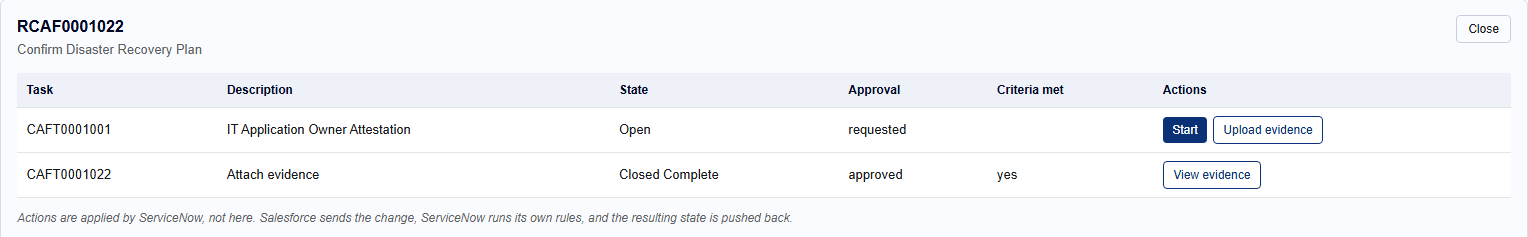
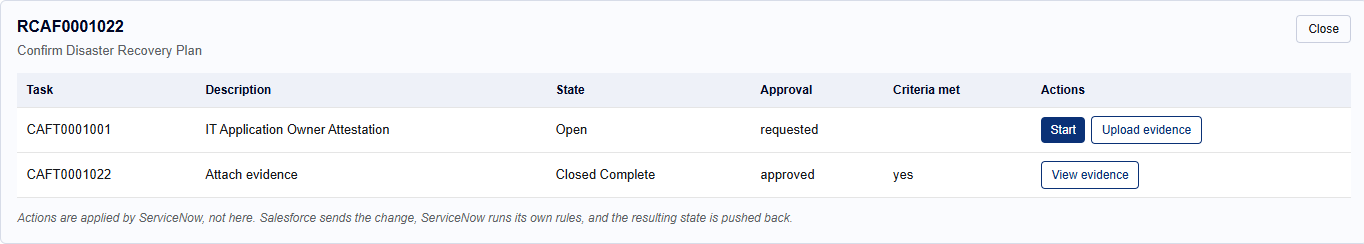
deck: re-derive crop boxes for the 1425px capture pass
Dashboard and portal-grid captures are still 1600px wide; the four
task-panel captures are now 1425px. Boxes are per-capture and were not
interchangeable, so drill-in, evidence-owner, attest-approver and
evidence-both are re-derived against the new screenshots.

diff --git a/presentation/crops.py b/presentation/crops.py
@@ -1,11 +1,16 @@
 """
 Screenshot preparation for the CAF Compliance business deck.
 
-The raw Playwright captures are 1600px-wide full-page shots with a lot of
-background below the fold, and a business slide wants the panel, not the page.
-Each entry below is a named region of a captured screen; `trim()` then removes
-any uniform border left over, so a crop box that is slightly generous
-self-corrects rather than leaving a grey band down one side.
+The raw Playwright captures are full-page shots with a lot of background below
+the fold, and a business slide wants the panel, not the page. Each entry below
+is a named region of a captured screen; `trim()` then removes any uniform
+border left over, so a crop box that is slightly generous self-corrects rather
+than leaving a grey band down one side.
+
+Two capture widths are in play, because the harness viewport changed between
+passes: the dashboard and portal-grid captures are 1600px wide, the four
+task-panel captures are 1425px. Boxes are therefore per-capture and are not
+interchangeable between the two sets.
 
 Sources are the UI evidence from testing/automation/evidence/ — the same
 captures the test pack cites, so a screen in the deck and a screen in the
@@ -34,17 +39,22 @@ REGIONS = {
     "sf-grid-pair": ("TC-INT-053/02-dashboard-with-sync-strip.png", (33, 345, 1570, 481)),
     "sn-grid-pair": ("TC-INT-048/02-servicenow-portal-grid.png", (240, 348, 1362, 515)),
 
+    # The four task-panel captures below are from the 1425px-wide pass. Each
+    # page carries the compliance grid above the panel and a sticky Salesforce
+    # nav strip across it, so the box starts below both and frames the panel
+    # only — the section heading down to its closing note.
+
     # Drill-in: a request's tasks with the actions available in each state.
-    "drill-in": ("TC-INT-051/01-drill-in-task-list.png", (33, 578, 1570, 815)),
+    "drill-in": ("TC-INT-051/01-drill-in-task-list.png", (30, 1275, 1400, 1520)),
 
     # Owner's view — upload evidence, both copies listed.
-    "evidence-owner": ("TC-INT-036/03-evidence-panel-owner-view.png", (33, 788, 1570, 1118)),
+    "evidence-owner": ("TC-INT-036/03-evidence-panel-owner-view.png", (30, 1482, 1400, 1800)),
 
     # Approver's view — evidence read-only beside the attestation form.
-    "attest-approver": ("TC-INT-036/04-attest-panel-approver-view.png", (33, 788, 1570, 1268)),
+    "attest-approver": ("TC-INT-036/04-attest-panel-approver-view.png", (30, 1482, 1420, 2010)),
 
     # Two copies of every file, side by side.
-    "evidence-both": ("TC-INT-020/01-evidence-both-lists.png", (52, 880, 1555, 1165)),
+    "evidence-both": ("TC-INT-020/01-evidence-both-lists.png", (40, 1592, 1400, 1870)),
 
     # ServiceNow's own portal grid — the admin/audit view, and the finding.
     "sn-portal-grid": ("TC-INT-048/02-servicenow-portal-grid.png", (240, 348, 1362, 592)),
